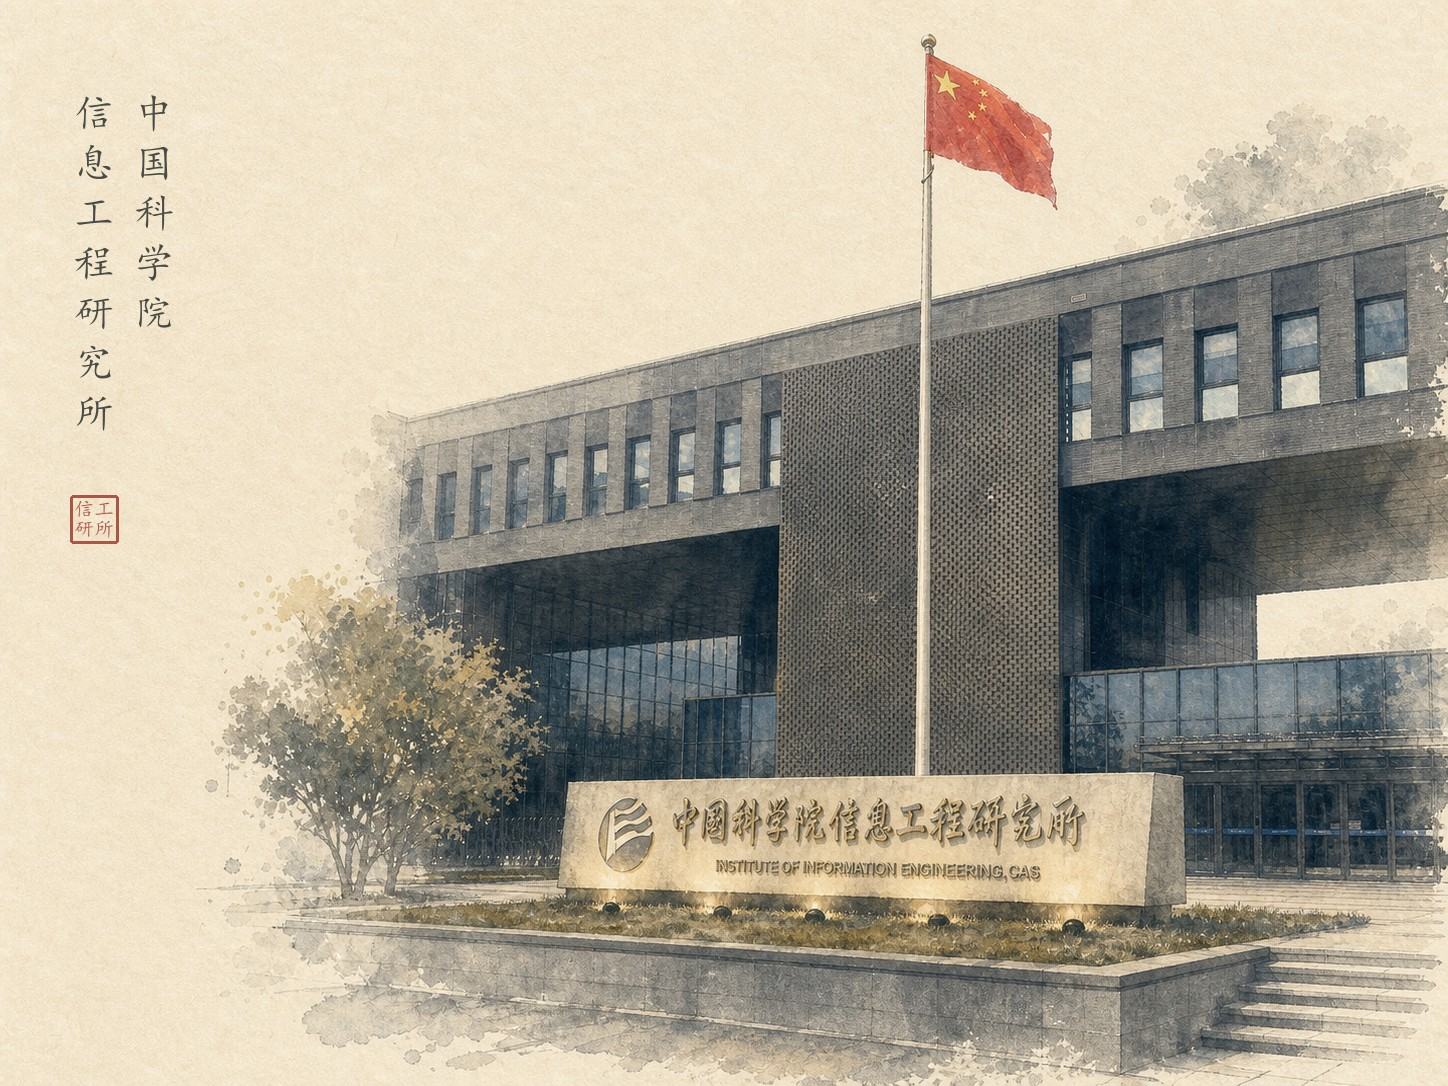
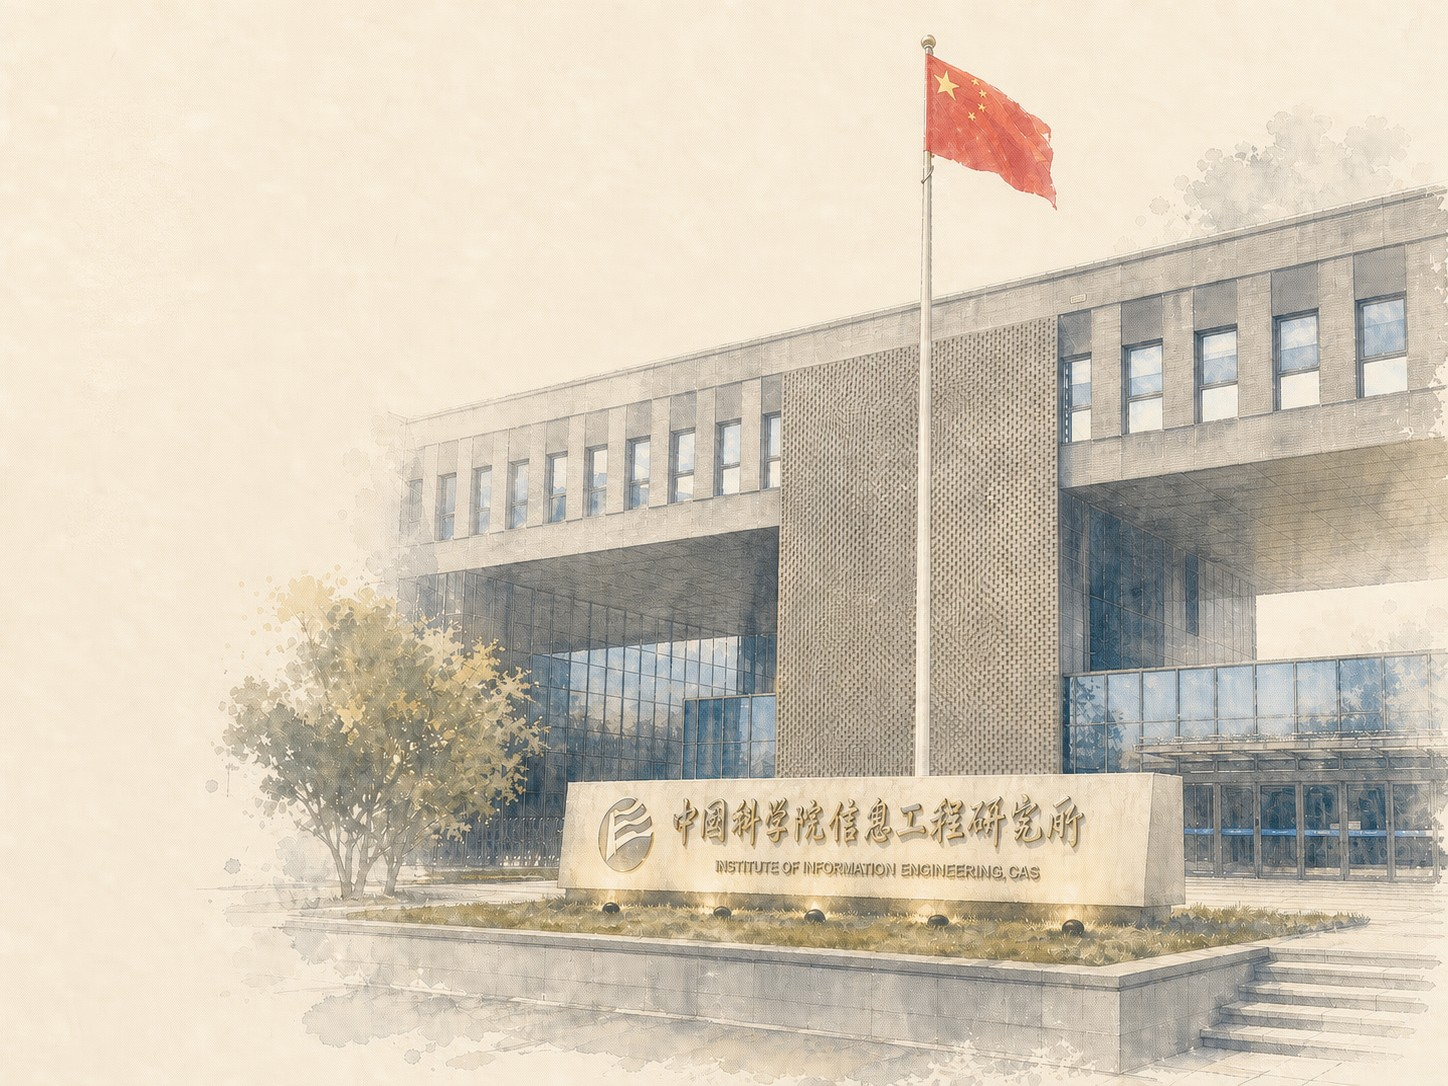
更新华大卡片

diff --git a/site-config.js b/site-config.js
@@ -19,7 +19,7 @@ export const siteCardConfig = {
     信工所: {
       variant: "institute-featured",
       image: {
-        src: "images/iie-cover-v2.jpg",
+        src: "images/iie-cover.jpg",
         position: "center 12%",
       },
       theme: {
@@ -71,6 +71,10 @@ export const siteCardConfig = {
     },
 
     华大: {
+      image: {
+        src: "images/bgi-cover.jpg",
+        position: "center",
+      },
       theme: {
         color: "#6750a4",
         aura: "#eaddff",
